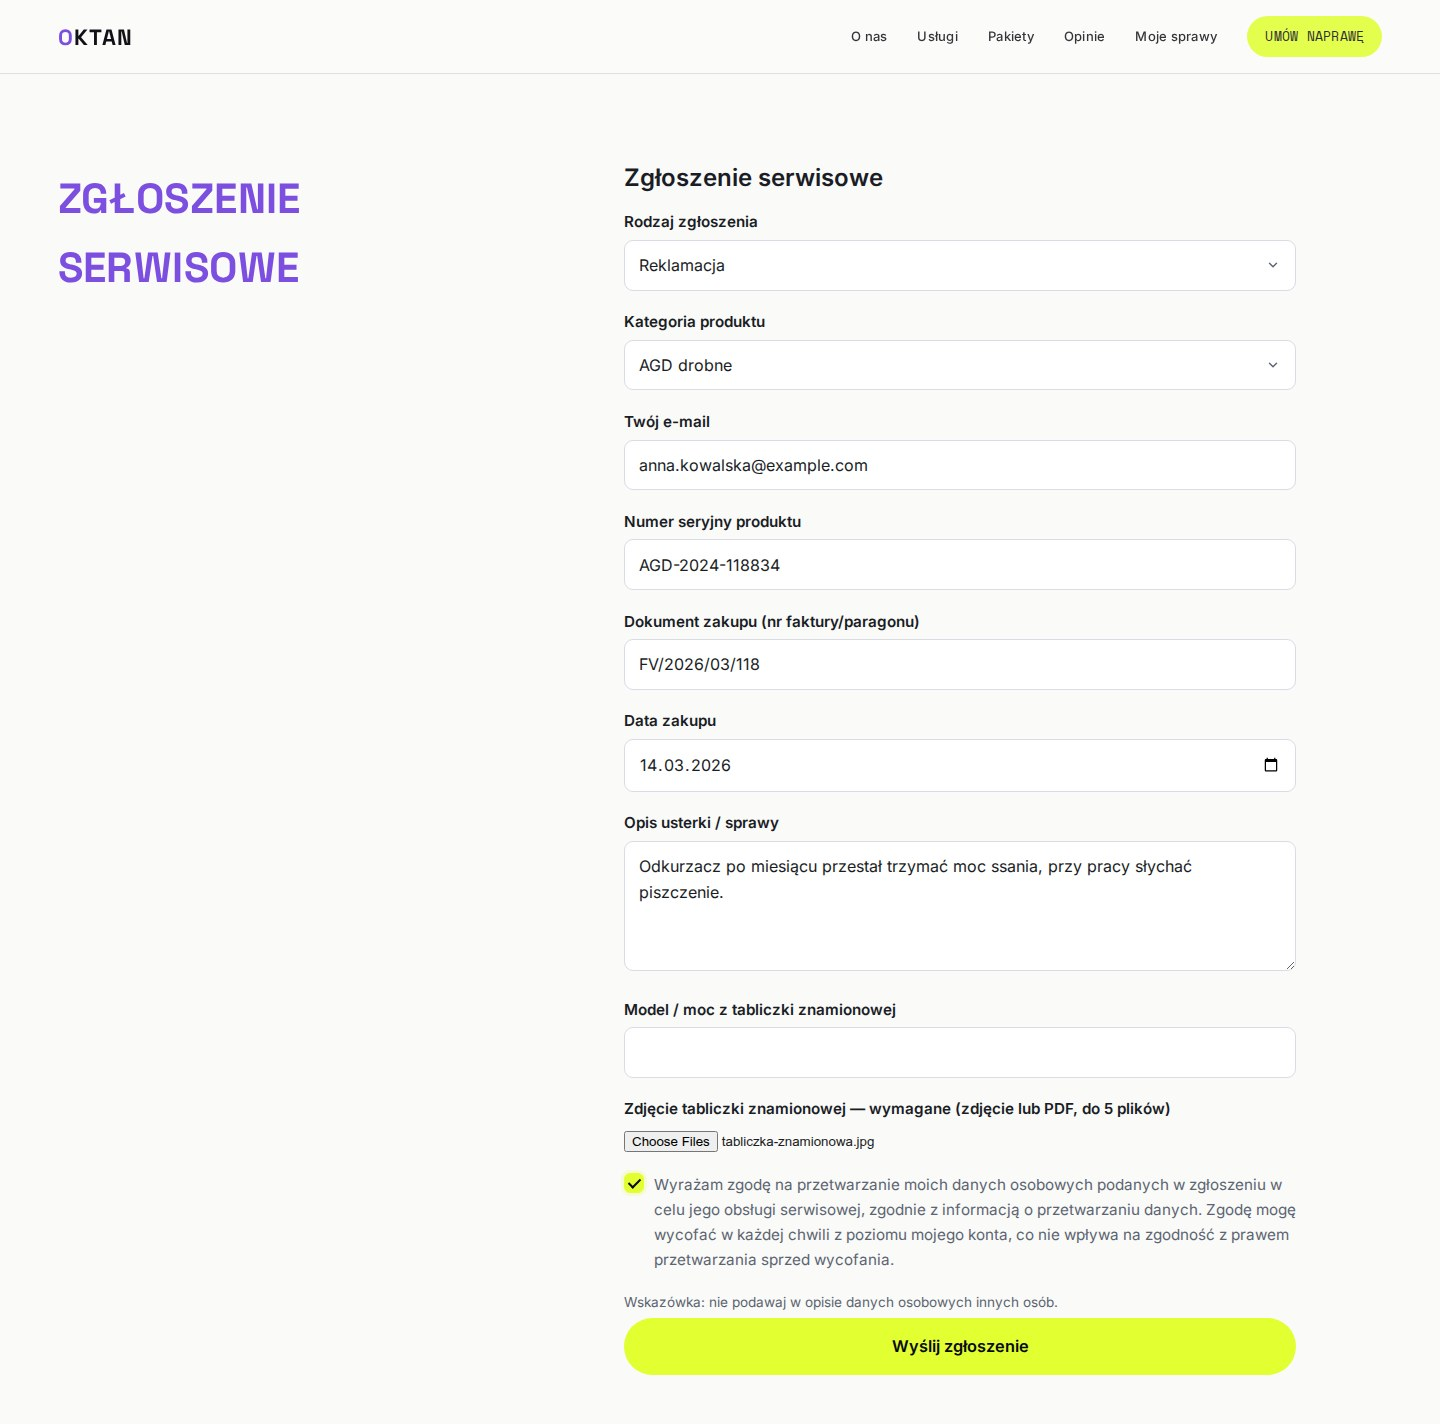
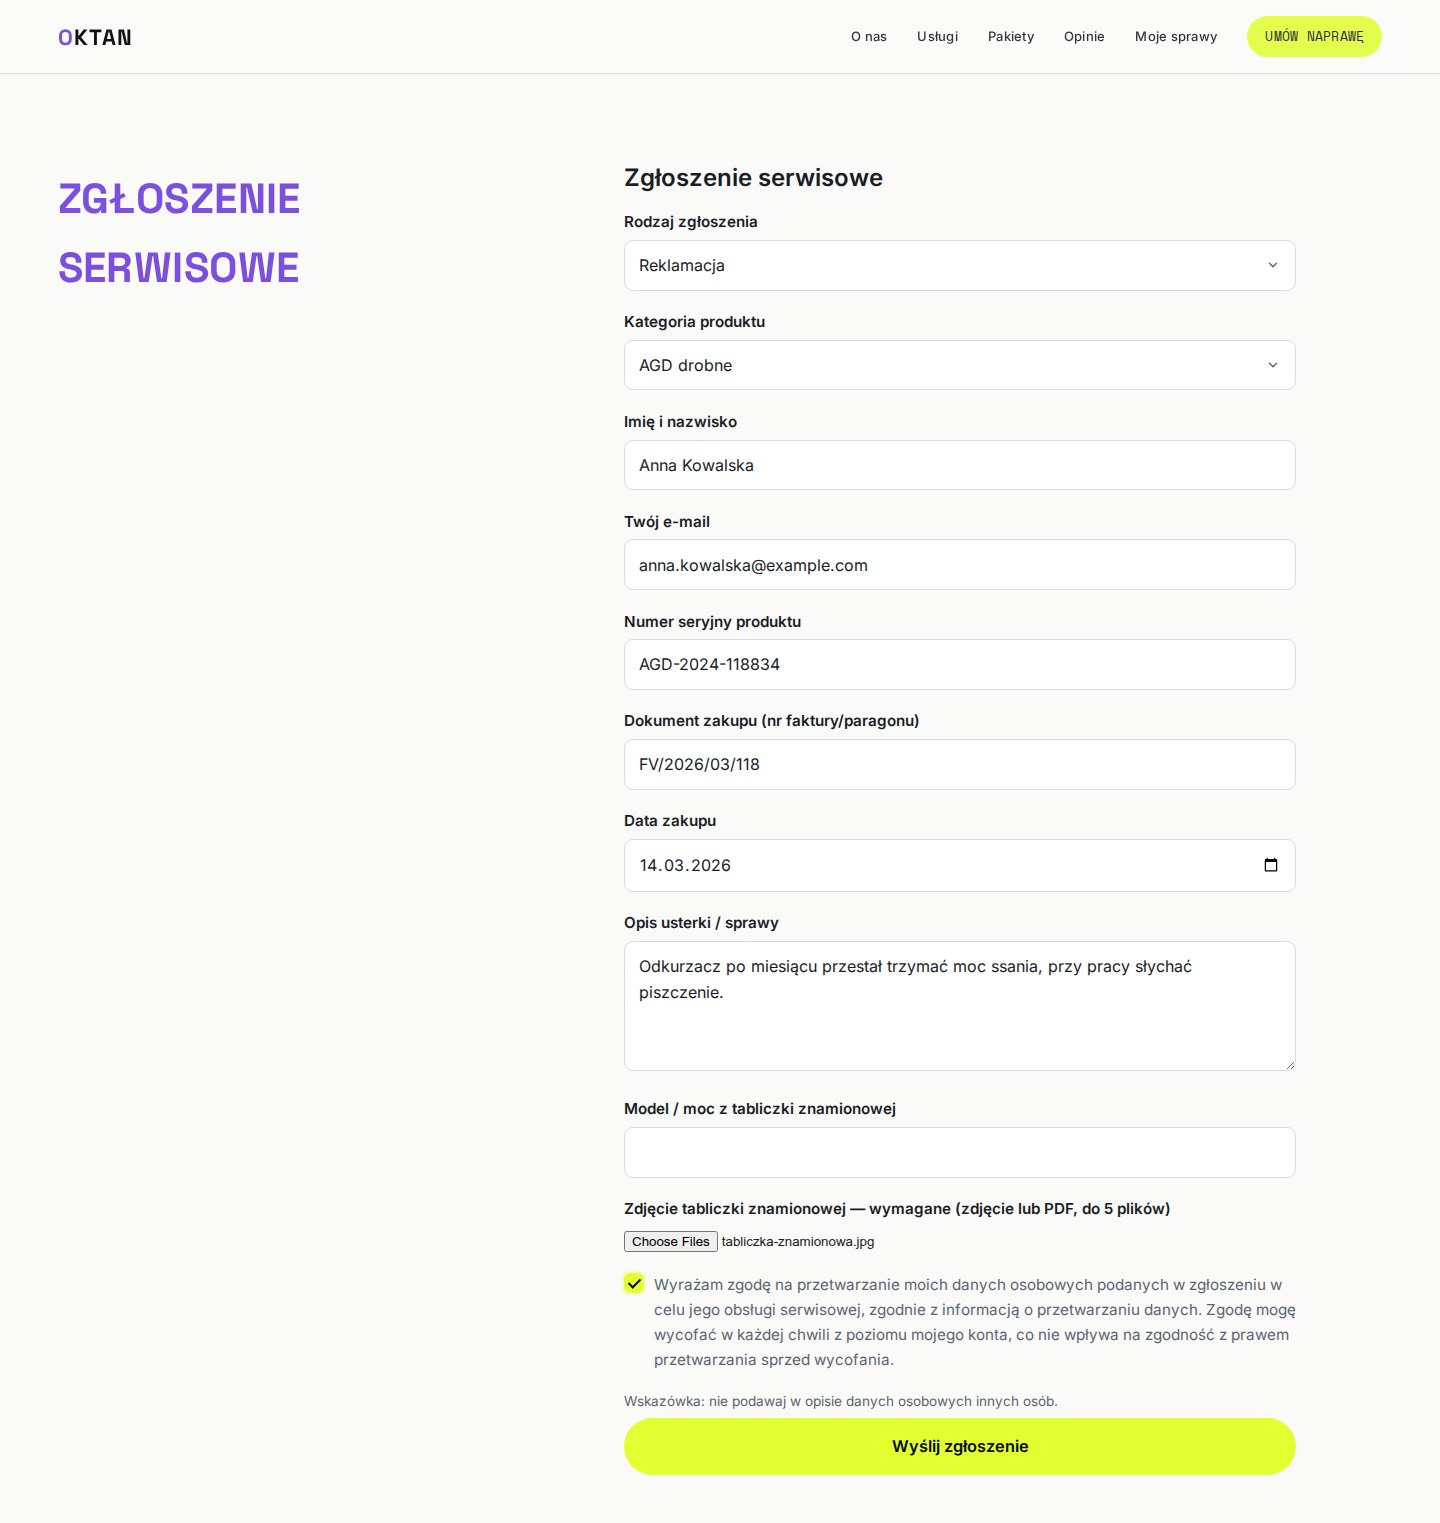
fix(zrzuty): instrukcja pokazuje formularz, który klient naprawdę widzi
Zdjęcia 02, 03 i 13 pokazywały formularz BEZ pola „Imię i nazwisko", choć pole
jest w kodzie i jest WYMAGANE (FormRenderer.php). Klient dostawał instrukcję
niezgodną z ekranem, na który patrzy.

PRZYCZYNA — dwa nieaktualne selektory w OBU skryptach zrzutów:

  1. `#mp-f-consent` już nie istnieje. Identyfikatory pól są SKŁADANE z klucza
     w konfiguracji formularza (`mp-f-` + klucz), więc pole zgody dostało
     `mp-f-mp_consent`. Skrypt wisiał 30 s i przerywał cały przebieg.

  2. Pole `customer_name` NIE BYŁO wypełniane w ogóle. Skrypt wysyłał formularz,
     dostawał czerwone „To pole jest wymagane" — i zapisywał ten ekran błędu jako
     `04-po-wyslaniu-komunikat.jpg`, czyli wkładał klientowi do instrukcji zdjęcie
     naszego formularza odrzucającego zgłoszenie. ⛔ Kod wyjścia był przy tym ZEROWY.

Oba selektory przepisane na `input[name="..."]`. Nazwa pola jest kontraktem wysyłki
i nie zmienia się razem ze schematem identyfikatorów — `id` zmieni się znowu.

TRZECIA ZMIANA w `zrzuty-do-instrukcji.js`: logowanie do panelu tylko wtedy, gdy
wybrane zrzuty go potrzebują. Ekrany klienta robi się jako GOŚĆ, więc zrobienie
zdjęcia PUSTEGO FORMULARZA nie ma powodu wymagać hasła administratora w cudzym
środowisku — albo zakładania tam konta.

ZRZUTY ZOSTAWIONE NOWE (6) i PRZYWRÓCONE (4) — patrz opis PR.
Wszystkie obejrzane oczami, nie „skrypt zwrócił zero".

⛔ Zero plików wtyczek w tej zmianie (sprawdzone `git diff --name-only`).
[…]

diff --git a/build/zrzuty-do-instrukcji.js b/build/zrzuty-do-instrukcji.js
@@ -32,8 +32,8 @@ const USER = process.env.MP_USER || '';
 const PASS = process.env.MP_PASS || '';
 const CASE_ID = process.env.MP_CASE_ID || '';
 
-if (!BASE || !USER || !PASS) {
-  console.error('Brakuje MP_BASE / MP_USER / MP_PASS w środowisku.');
+if (!BASE) {
+  console.error('Brakuje MP_BASE w środowisku.');
   process.exit(2);
 }
 
@@ -126,13 +126,15 @@ const ZRZUTY = [
     akcje: async (page) => {
       await page.selectOption('#mp-f-kind', 'reklamacja');
       await page.selectOption('#mp-f-category', 'agd');
+      // Pole WYMAGANE — bez niego zrzut pokazywalby blad walidacji.
+      await page.fill('input[name="customer_name"]', 'Anna Kowalska');
       await page.fill('#mp-f-email', 'anna.kowalska@example.com');
       await page.fill('#mp-f-serial', 'AGD-2024-118834');
       await page.fill('#mp-f-purchase_document', 'FV/2026/03/118');
       await page.fill('#mp-f-purchase_date', '2026-03-14');
       await page.fill('#mp-f-issue_description', 'Odkurzacz po miesiącu przestał trzymać moc ssania, przy pracy słychać piszczenie.');
       await page.setInputFiles('#mp-f-mp_files', plikPrzykladowy());
-      await page.check('#mp-f-consent');
+      await page.check('input[name="mp_consent"]');
     },
   },
   {
@@ -146,6 +148,8 @@ const ZRZUTY = [
     akcje: async (page) => {
       await page.selectOption('#mp-f-kind', 'naprawa');
       await page.selectOption('#mp-f-category', 'elektronarzedzia');
+      // Pole WYMAGANE — bez niego zrzut pokazywalby blad walidacji.
+      await page.fill('input[name="customer_name"]', 'Anna Kowalska');
       await page.fill('#mp-f-email', 'anna.kowalska@example.com');
       await page.fill('#mp-f-serial', 'ETN-2025-004120');
       await page.fill('#mp-f-issue_description', 'Wkrętarka nie ładuje się do końca — dioda miga na czerwono.');
@@ -169,13 +173,30 @@ const ZRZUTY = [
   const kontekst = await browser.newContext({ viewport: { width: SZEROKOSC, height: 900 }, locale: 'pl-PL' });
 
   // Logowanie RAZ, przez prawdziwy formularz — sesja starcza na wszystkie ekrany.
-  const logowanie = await kontekst.newPage();
-  await logowanie.goto(`${BASE}/wp-login.php`, { waitUntil: 'domcontentloaded' });
-  await logowanie.fill('#user_login', USER);
-  await logowanie.fill('#user_pass', PASS);
-  await Promise.all([logowanie.waitForNavigation({ waitUntil: 'networkidle' }), logowanie.click('#wp-submit')]);
-  const zalogowany = await logowanie.locator('#wpadminbar').count();
-  await logowanie.close();
+  //
+  // ⛔ TYLKO gdy wybrane zrzuty go potrzebują. Ekrany klienta (`wyloguj: true`)
+  //    oglada sie jako GOSC, wiec zadanie samych tych trzech nie ma powodu wymagac
+  //    hasla administratora. Bezwarunkowe logowanie oznaczalo, ze zeby zrobic zdjecie
+  //    PUSTEGO FORMULARZA trzeba miec konto w cudzym srodowisku — albo je tam zalozyc.
+  const trzebaSieLogowac = doZrobienia.some((z) => !z.wyloguj);
+
+  if (trzebaSieLogowac && (!USER || !PASS)) {
+    console.error('Wybrane zrzuty wymagaja panelu — podaj MP_USER i MP_PASS.');
+    await browser.close();
+    process.exit(2);
+  }
+
+  const logowanie = trzebaSieLogowac ? await kontekst.newPage() : null;
+  let zalogowany = true;
+
+  if (logowanie) {
+    await logowanie.goto(`${BASE}/wp-login.php`, { waitUntil: 'domcontentloaded' });
+    await logowanie.fill('#user_login', USER);
+    await logowanie.fill('#user_pass', PASS);
+    await Promise.all([logowanie.waitForNavigation({ waitUntil: 'networkidle' }), logowanie.click('#wp-submit')]);
+    zalogowany = Boolean(await logowanie.locator('#wpadminbar').count());
+    await logowanie.close();
+  }
 
   if (!zalogowany) {
     console.error('Nie udało się zalogować — sprawdź MP_USER / MP_PASS.');

diff --git a/build/zrzuty-sciezka-klienta.js b/build/zrzuty-sciezka-klienta.js
@@ -35,6 +35,12 @@ const SZEROKOSC = 1440;
 // Dane demo: człowiek, nie „test1@example.com". Numer seryjny musi istnieć
 // w rejestrze, inaczej ekrany pokażą „brak danych" zamiast gwarancji.
 const KLIENT = {
+  // Pole „Imię i nazwisko" jest WYMAGANE. Brakowało go tu w ogóle: skrypt wypełniał
+  // resztę, wysyłał formularz, dostawał czerwony komunikat „To pole jest wymagane"
+  // — i zapisywał ten ekran jako `04-po-wyslaniu-komunikat.jpg`, czyli wkładał
+  // klientowi do instrukcji zdjęcie NASZEGO formularza odrzucającego zgłoszenie.
+  // Kod wyjścia był przy tym zerowy.
+  imie: process.env.MP_KLIENT_IMIE || 'Anna Nowak',
   email: process.env.MP_KLIENT_EMAIL || 'anna.nowak@example.com',
   serial: process.env.MP_SERIAL || 'SN-AGD-2001',
   dokument: process.env.MP_DOKUMENT || 'FV/2026/0155',
@@ -173,13 +179,21 @@ function linkZMaila(mail, wzorzec) {
   async function wypelnijFormularz() {
     await page.selectOption('#mp-f-kind', 'reklamacja');
     await page.selectOption('#mp-f-category', 'agd');
+    // Selektory po NAZWIE pola, nie po `id`: identyfikator jest składany
+    // z klucza w konfiguracji formularza i zmienia się razem z nią.
+    await page.fill('input[name="customer_name"]', KLIENT.imie);
     await page.fill('#mp-f-email', KLIENT.email);
     await page.fill('#mp-f-serial', KLIENT.serial);
     await page.fill('#mp-f-purchase_document', KLIENT.dokument);
     await page.fill('#mp-f-purchase_date', KLIENT.data);
     await page.fill('#mp-f-issue_description', KLIENT.opis);
     await page.setInputFiles('#mp-f-mp_files', plikPrzykladowy());
-    await page.check('#mp-f-consent');
+    // Po nazwie pola, nie po `id`. Identyfikator jest SKLADANY z klucza pola
+    // z konfiguracji formularza (`mp-f-` + klucz), wiec `#mp-f-consent` przestal
+    // istniec, gdy pole zgody dostalo klucz `mp_consent`. Zrzut wisial wtedy
+    // 30 sekund na czekaniu i przerywal caly przebieg. `name` jest kontraktem
+    // wysylki i nie zmienia sie razem ze schematem identyfikatorow.
+    await page.check('input[name="mp_consent"]');
   }
 
   await page.goto(FORM, { waitUntil: 'networkidle' });
